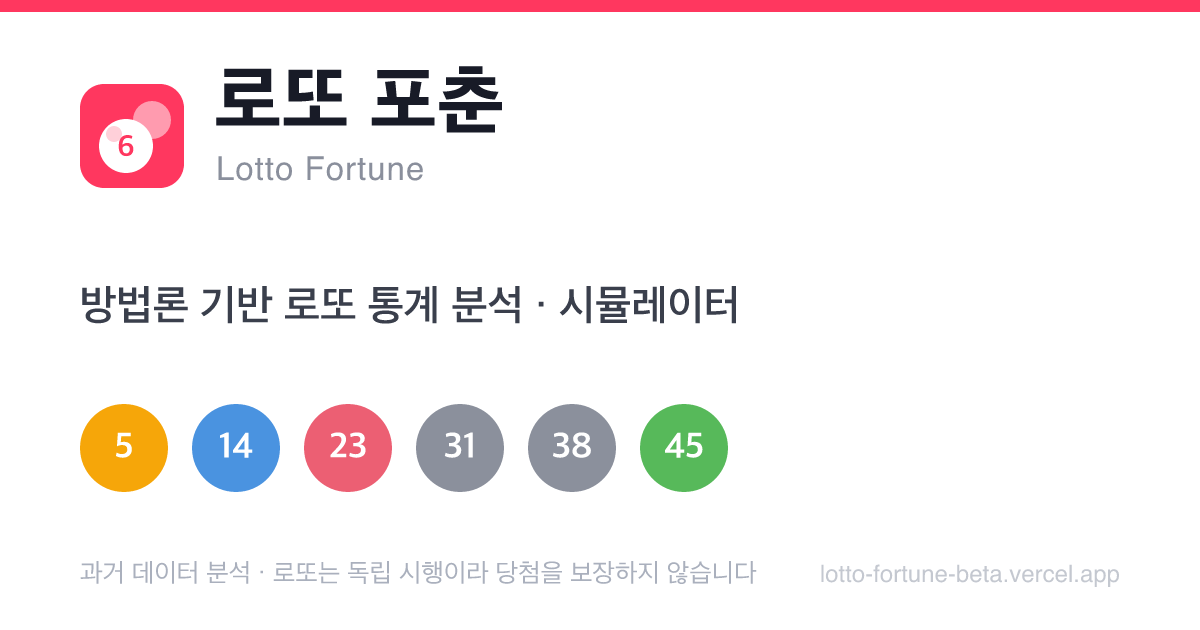
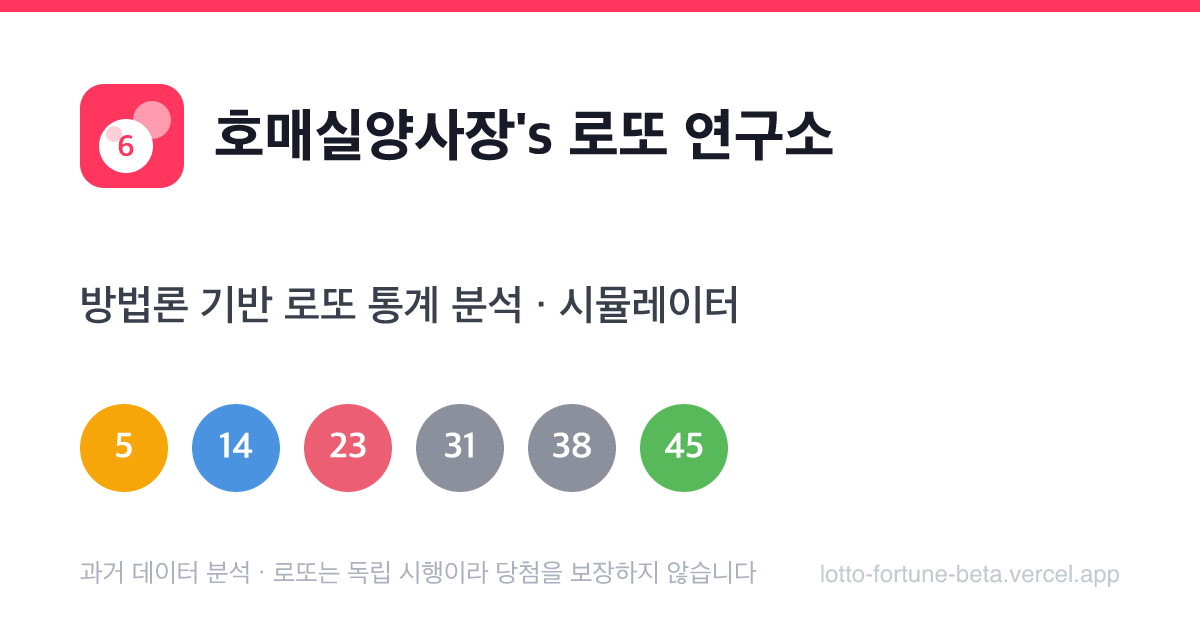
rebrand: 서비스명 '호매실양사장's 로또 연구소'로 변경 (영문명 제거)
- 타이틀/헤더/저작권, PWA 매니페스트, OG 메타·이미지(og.png 재생성) 모두 반영

Changed region(s): [[0.1542, 0.0905, 0.7092, 0.3016]]

diff --git a/index.html b/index.html
@@ -3,7 +3,7 @@
   <head>
     <meta charset="UTF-8" />
     <meta name="viewport" content="width=device-width, initial-scale=1.0, viewport-fit=cover" />
-    <title>로또 포춘 | Lotto Fortune</title>
+    <title>호매실양사장's 로또 연구소</title>
     <meta name="robots" content="noindex, nofollow" />
     <meta name="googlebot" content="noindex, nofollow" />
 
@@ -18,22 +18,22 @@
     <meta name="description" content="방법론 기반 로또 통계 분석·시뮬레이터. 출현 빈도·구간 흐름·미출현·백테스트·번호 추천을 한 곳에서. 과거 데이터 분석이며 당첨을 보장하지 않습니다." />
     <meta name="theme-color" content="#ff375f" />
     <meta property="og:type" content="website" />
-    <meta property="og:site_name" content="로또 포춘" />
-    <meta property="og:title" content="로또 포춘 | Lotto Fortune" />
+    <meta property="og:site_name" content="호매실양사장's 로또 연구소" />
+    <meta property="og:title" content="호매실양사장's 로또 연구소" />
     <meta property="og:description" content="방법론 기반 로또 통계 분석·시뮬레이터 — 출현/미출현, 구간 흐름, 백테스트, 번호 추천." />
     <meta property="og:locale" content="ko_KR" />
     <meta property="og:url" content="https://lotto-fortune-beta.vercel.app/" />
     <meta property="og:image" content="https://lotto-fortune-beta.vercel.app/og.png" />
     <meta property="og:image:width" content="1200" />
     <meta property="og:image:height" content="630" />
-    <meta property="og:image:alt" content="로또 포춘 — 방법론 기반 로또 통계 분석·시뮬레이터" />
+    <meta property="og:image:alt" content="호매실양사장's 로또 연구소 — 방법론 기반 로또 통계 분석" />
     <meta name="twitter:card" content="summary_large_image" />
-    <meta name="twitter:title" content="로또 포춘 | Lotto Fortune" />
+    <meta name="twitter:title" content="호매실양사장's 로또 연구소" />
     <meta name="twitter:description" content="방법론 기반 로또 통계 분석·시뮬레이터." />
     <meta name="twitter:image" content="https://lotto-fortune-beta.vercel.app/og.png" />
 
     <!-- 모바일 홈화면 추가 -->
-    <meta name="apple-mobile-web-app-title" content="로또 포춘" />
+    <meta name="apple-mobile-web-app-title" content="로또 연구소" />
     <meta name="apple-mobile-web-app-capable" content="yes" />
     <meta name="apple-mobile-web-app-status-bar-style" content="default" />
 

diff --git a/src/App.tsx b/src/App.tsx
@@ -191,8 +191,7 @@ export default function App() {
         <div className="brand">
           <Logo />
           <div className="brand-titles">
-            <h1 className="large-title">로또 포춘</h1>
-            <span className="brand-en">Lotto Fortune</span>
+            <h1 className="large-title">호매실양사장's 로또 연구소</h1>
           </div>
         </div>
         <p className="nav-sub">
@@ -654,7 +653,7 @@ export default function App() {
         )}
 
         <p className="footer span-2">과거 데이터 분석이며 로또는 독립 시행이라 당첨을 보장하지 않습니다.</p>
-        <p className="copyright span-2">© 2026 로또 포춘 (Lotto Fortune). All rights reserved.</p>
+        <p className="copyright span-2">© 2026 호매실양사장's 로또 연구소. All rights reserved.</p>
       </main>
     </div>
   );

diff --git a/vite.config.ts b/vite.config.ts
@@ -10,8 +10,8 @@ export default defineConfig({
       registerType: "autoUpdate",
       includeAssets: ["pwa-icon.svg"],
       manifest: {
-        name: "로또 포춘 (Lotto Fortune)",
-        short_name: "로또 포춘",
+        name: "호매실양사장's 로또 연구소",
+        short_name: "로또 연구소",
         description: "방법론 기반 로또 통계 분석·시뮬레이터",
         lang: "ko",
         theme_color: "#ff375f",